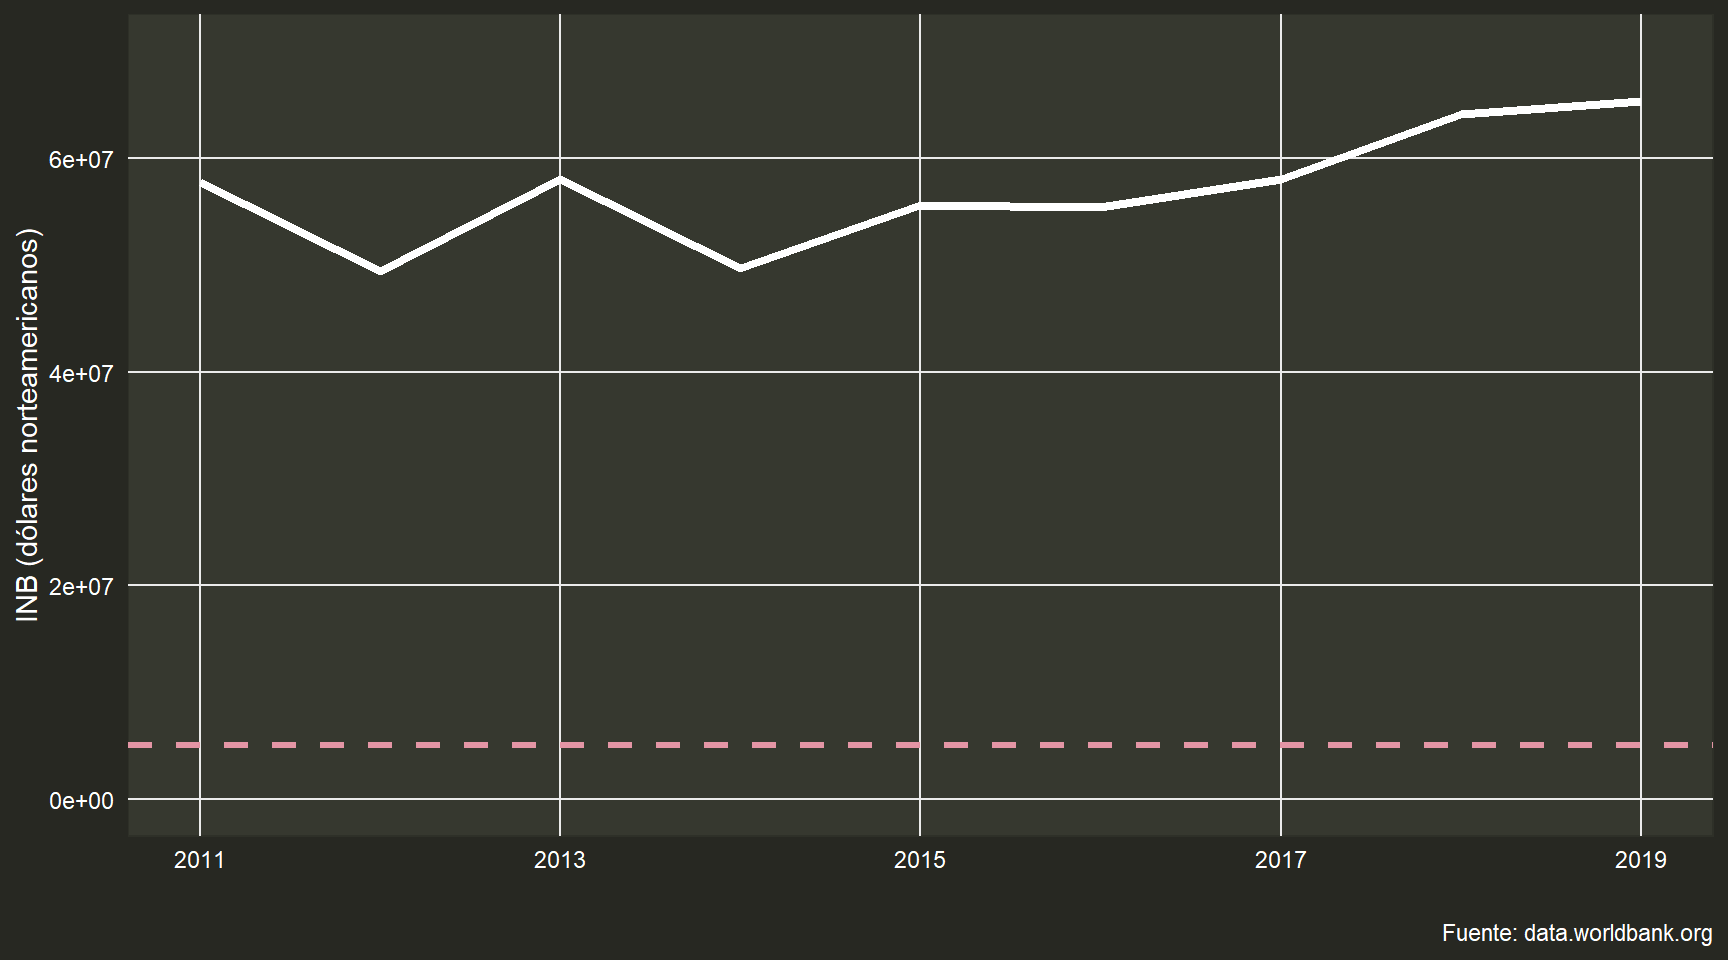
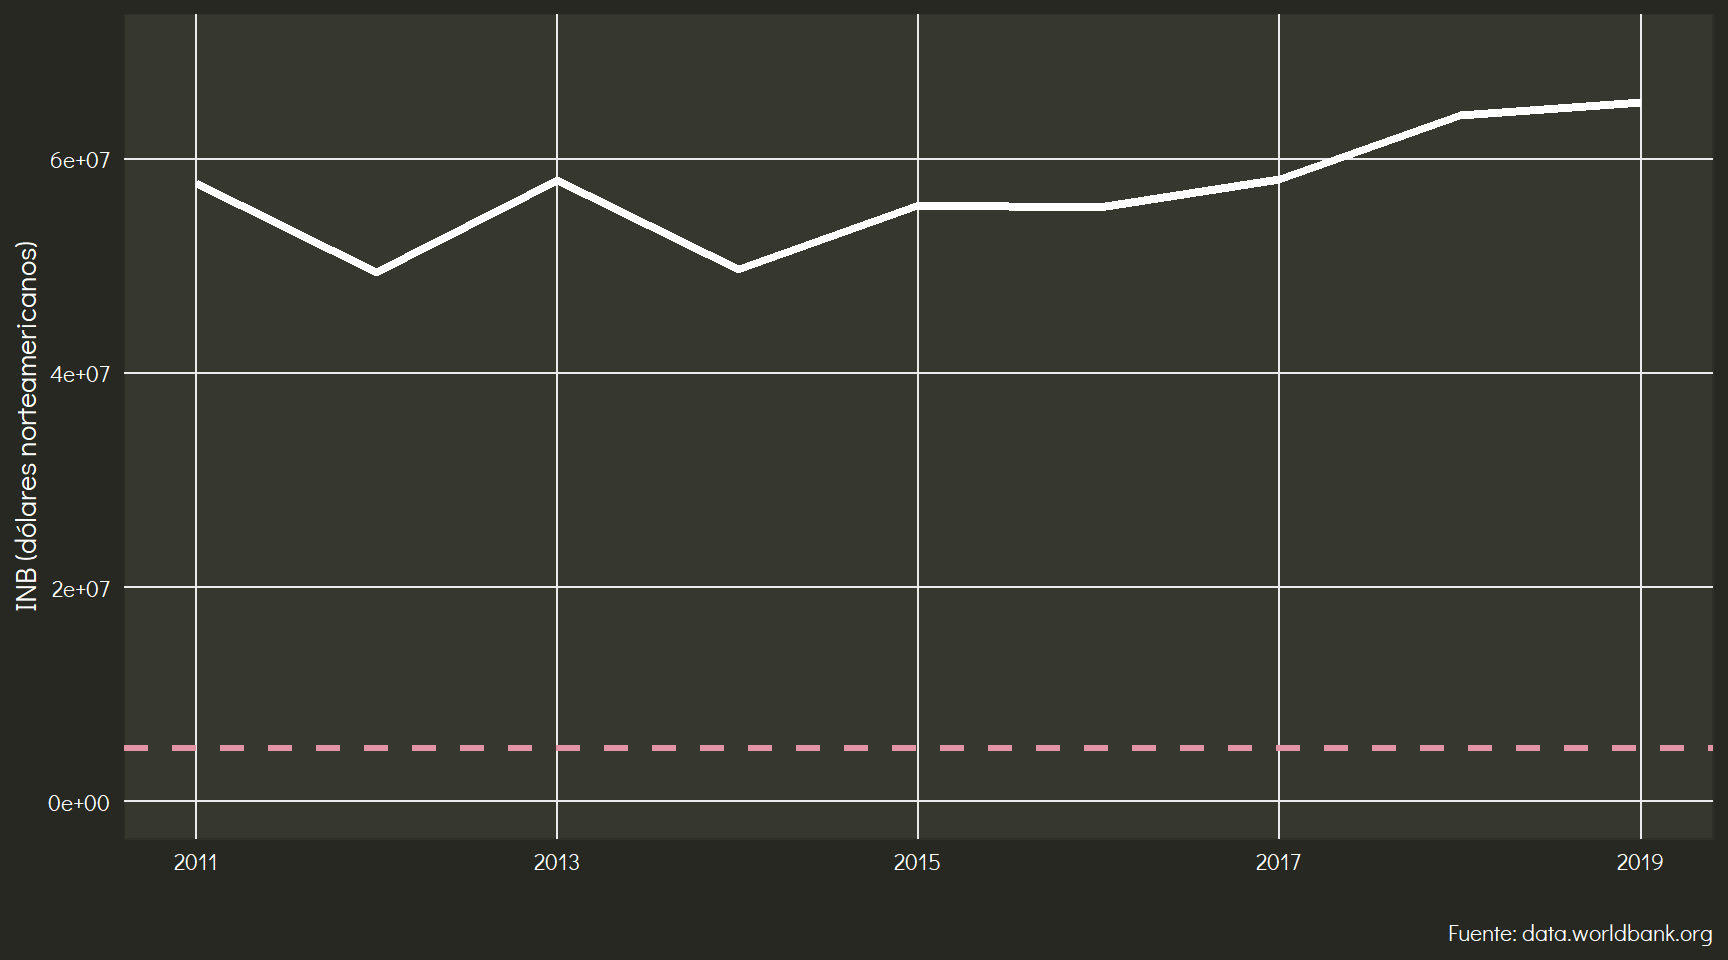
tuvalu, new font

diff --git a/content/spanish/posts/2020-10-29-tuvalu.html b/content/spanish/posts/2020-10-29-tuvalu.html
@@ -11,6 +11,7 @@ showDate: yes
 <script src="/rmarkdown-libs/header-attrs/header-attrs.js"></script>
 
 
+<p><img src="/spanish/posts/2020-10-29-tuvalu_files/figure-html/unnamed-chunk-1-1.png" width="100%" /></p>
 <p>¿Alguna vez escuchaste hablar del país <a href="https://es.wikipedia.org/wiki/Tuvalu">Tuvalu</a>? La primera vez que escuché sobre este país fue hace muchos años en una reunión del grupo de investigación de mi suegra. ¿Alguna vez escuchaste hablar de <a href="twitch.tv">Twitch</a>? En este post te cuento lo que tienen en común.</p>
 <p>Tuvalu es un país chiquito situado en la subregión polinésica de Oceanía. Su superficie es de alrededor de 26 kilómetros cuadrados y tiene una población estimada de 11.500 habitantes. Curiosamente, está localizada casi en los 180 grados de longitud:
 <img src = "/img/tuvalis.png" width = "100%"></p>
